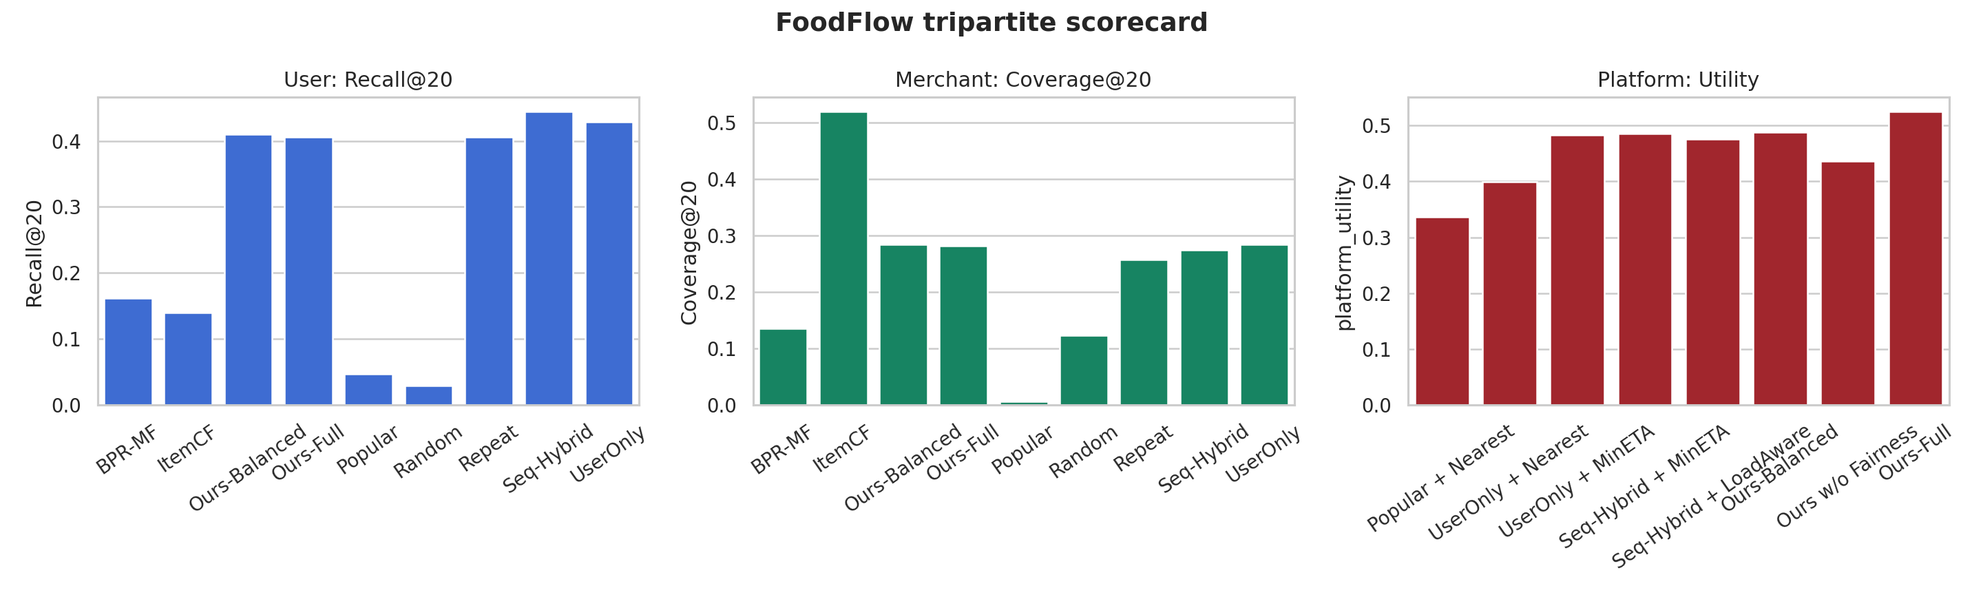
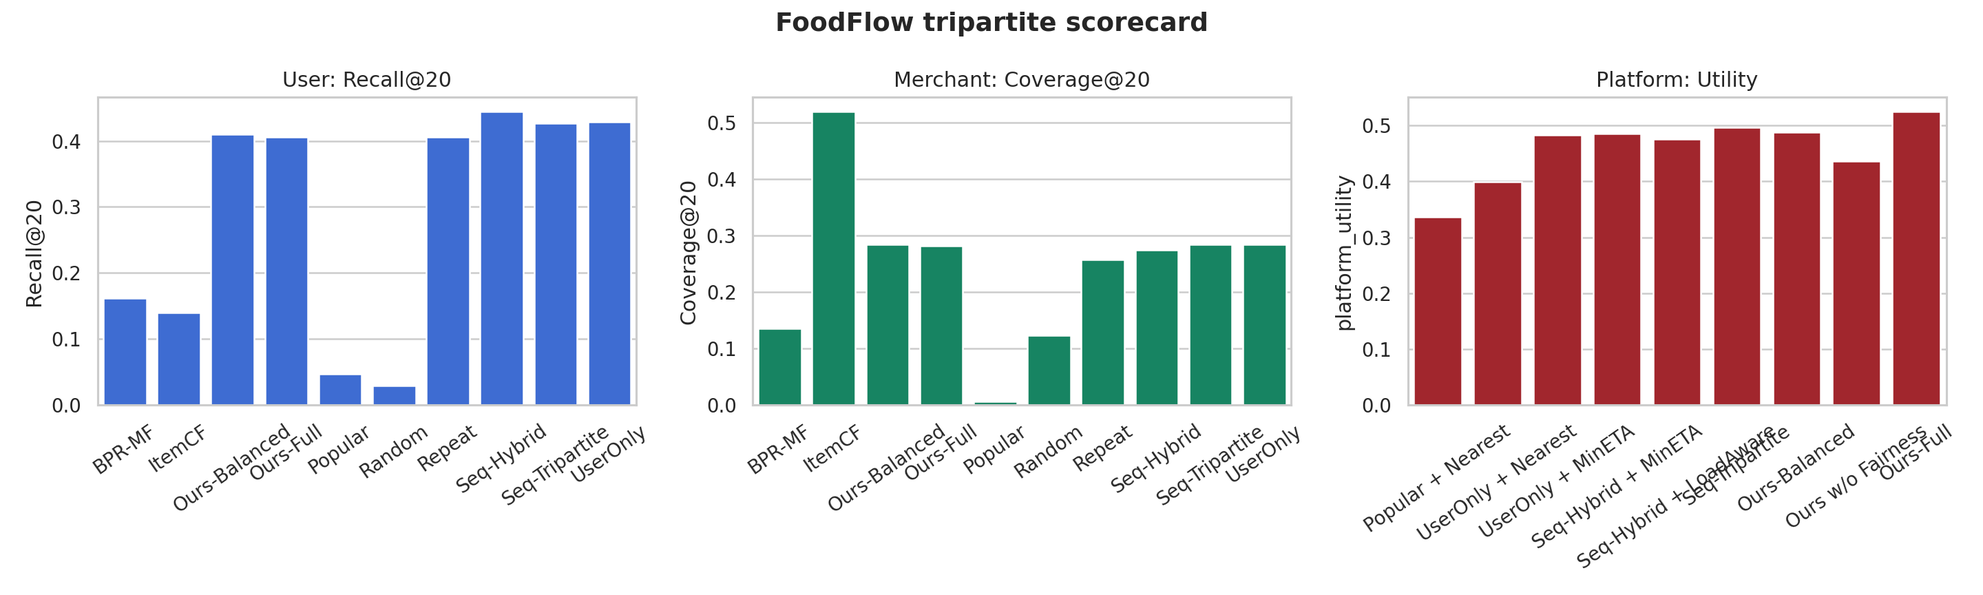
Add sequence tripartite reranker

diff --git a/foodflow/recommenders.py b/foodflow/recommenders.py
@@ -309,32 +309,88 @@ class SequentialHybridRecommender(UserOnlyRecommender):
         candidates.extend(self.popular_list)
         return [m for m in dict.fromkeys(candidates) if m in self.merchants.index]
 
-    def recommend_for_user(self, user_id: str, k: int, period: str = "lunch") -> tuple[list[str], dict[str, float]]:
+    def user_score(self, user_id: str, merchant_id: str, period: str = "lunch") -> float:
         seq = self.recent_by_user.get(user_id, [])
         counts = self.user_item_counts.get(user_id, Counter())
+        merchant = self.merchants.loc[merchant_id]
+        category = merchant.get("primary_first_tag_id", "unknown")
+        category_pref = float(self.user_cat_counts.get(user_id, {}).get(category, 0.0))
+        repeat = np.log1p(counts.get(merchant_id, 0)) / np.log(5)
+        recency_fast, recency_slow = self._recency_scores(seq, merchant_id)
+        transition = self._transition_score(seq, merchant_id)
+        popularity = float(self.pop_log.get(merchant_id, 0.0))
+        quality = float(self.quality.get(merchant_id, 0.5))
+        return float(
+            0.25 * recency_fast
+            + 0.12 * recency_slow
+            + 0.30 * repeat
+            + 0.23 * transition
+            + 0.05 * category_pref
+            + 0.03 * popularity
+            + 0.02 * quality
+        )
+
+    def recommend_for_user(self, user_id: str, k: int, period: str = "lunch") -> tuple[list[str], dict[str, float]]:
         candidates = self._sequential_candidates(user_id)
         scores: dict[str, float] = {}
         for merchant_id in candidates:
-            merchant = self.merchants.loc[merchant_id]
-            category = merchant.get("primary_first_tag_id", "unknown")
-            category_pref = float(self.user_cat_counts.get(user_id, {}).get(category, 0.0))
-            repeat = np.log1p(counts.get(merchant_id, 0)) / np.log(5)
-            recency_fast, recency_slow = self._recency_scores(seq, merchant_id)
-            transition = self._transition_score(seq, merchant_id)
-            popularity = float(self.pop_log.get(merchant_id, 0.0))
-            quality = float(self.quality.get(merchant_id, 0.5))
-            scores[merchant_id] = float(
-                0.25 * recency_fast
-                + 0.12 * recency_slow
-                + 0.30 * repeat
-                + 0.23 * transition
-                + 0.05 * category_pref
-                + 0.03 * popularity
-                + 0.02 * quality
-            )
+            scores[merchant_id] = self.user_score(user_id, merchant_id, period)
         ranked = sorted(scores, key=scores.get, reverse=True)
         recs = self._remove_seen_and_backfill(user_id, ranked, k)
         return recs, {m: scores.get(m, float(self.popular.get(m, 0))) for m in recs}
+
+
+class SeqTripartiteRecommender(SequentialHybridRecommender):
+    name = "Seq-Tripartite"
+
+    def __init__(
+        self,
+        user_weight: float = 0.95,
+        fairness_weight: float = 0.02,
+        eta_weight: float = 0.02,
+        supply_weight: float = 0.01,
+    ):
+        self.user_weight = user_weight
+        self.fairness_weight = fairness_weight
+        self.eta_weight = eta_weight
+        self.supply_weight = supply_weight
+
+    def fit(self, data: PreparedData) -> "SeqTripartiteRecommender":
+        super().fit(data)
+        self.fair = fairness_scores(data.merchants)
+        self.data = data
+        return self
+
+    def component_scores(self, user_id: str, merchant_id: str, period: str = "lunch") -> dict[str, float]:
+        user_row = self.users.loc[user_id] if user_id in self.users.index else pd.Series(dtype=object)
+        merchant = self.merchants.loc[merchant_id]
+        user_score = self.user_score(user_id, merchant_id, period)
+        eta = estimate_user_merchant_eta(user_row, merchant, period)
+        eta_score = 1.0 - min(eta / 70.0, 1.0)
+        supply = supply_score_for_merchant(merchant)
+        fair = float(self.fair.get(merchant_id, 0.0))
+        final = float(
+            self.user_weight * user_score
+            + self.fairness_weight * fair
+            + self.eta_weight * eta_score
+            + self.supply_weight * supply
+        )
+        return {
+            "user_score": float(user_score),
+            "merchant_fairness": fair,
+            "eta_minutes": float(eta),
+            "eta_score": float(eta_score),
+            "supply_score": float(supply),
+            "final_score": final,
+        }
+
+    def recommend_for_user(self, user_id: str, k: int, period: str = "lunch") -> tuple[list[str], dict[str, float]]:
+        scores = {}
+        for merchant_id in self._sequential_candidates(user_id):
+            scores[merchant_id] = self.component_scores(user_id, merchant_id, period)["final_score"]
+        ranked = sorted(scores, key=scores.get, reverse=True)
+        recs = self._remove_seen_and_backfill(user_id, ranked, k)
+        return recs, {m: scores[m] for m in recs}
 
 
 class TripartiteRerankRecommender(UserOnlyRecommender):
@@ -423,6 +479,7 @@ def build_recommenders(seed: int = 42) -> list[BaseRecommender]:
         BPRMFRecommender(seed=seed),
         UserOnlyRecommender(),
         SequentialHybridRecommender(),
+        SeqTripartiteRecommender(),
         OursBalancedRecommender(),
         OursFullRecommender(),
     ]

diff --git a/foodflow/report.py b/foodflow/report.py
@@ -102,23 +102,23 @@ def build_report(
 
 ## 3. 方法设计
 
-实现的推荐策略包括 Random、Popular、Repeat、ItemCF、BPR-MF、UserOnly、Seq-Hybrid 和 Ours-Full。Random 和 Popular 是基础对照；Repeat 反映外卖复购特征；ItemCF 和 BPR-MF 是传统协同过滤基线；UserOnly 使用品类、复购、价格、时段和商家质量；Seq-Hybrid 借鉴 FPMC/下一篮子推荐和会话推荐思想，加入最近订单时间衰减、复购频率和商家转移概率；Ours-Full 在 UserOnly 上加入商家曝光公平、ETA 和供给分。
+实现的推荐策略包括 Random、Popular、Repeat、ItemCF、BPR-MF、UserOnly、Seq-Hybrid、Seq-Tripartite 和 Ours-Full。Random 和 Popular 是基础对照；Repeat 反映外卖复购特征；ItemCF 和 BPR-MF 是传统协同过滤基线；UserOnly 使用品类、复购、价格、时段和商家质量；Seq-Hybrid 借鉴 FPMC/下一篮子推荐和会话推荐思想，加入最近订单时间衰减、复购频率和商家转移概率；Seq-Tripartite 在序列偏好底座上轻量加入公平、ETA 和供给约束；Ours-Full 在 UserOnly 上加入商家曝光公平、ETA 和供给分。
 
-为增强“不是只给一个手调模型”的可信度，系统还支持 Ours-Balanced，它提高用户偏好权重，同时保留 ETA 与供给约束，用于观察准确性和履约指标之间的权衡。答辩时可以把 Seq-Hybrid、UserOnly、Ours-Balanced 和 Ours-Full 作为一条多目标权衡链路：先用序列复购模型把离线准确性拉高，再展示三方重排如何换取更好的履约与平台效用。
+为增强“不是只给一个手调模型”的可信度，系统还支持 Ours-Balanced，它提高用户偏好权重，同时保留 ETA 与供给约束，用于观察准确性和履约指标之间的权衡。答辩时可以把 Seq-Hybrid、Seq-Tripartite、Ours-Balanced 和 Ours-Full 作为一条多目标权衡链路：先用序列复购模型把离线准确性拉高，再展示三方重排如何换取更好的履约与平台效用。
 
-三方仿真包括 Popular + Nearest、UserOnly + Nearest、UserOnly + MinETA、Seq-Hybrid + MinETA、Seq-Hybrid + LoadAware、Ours-Balanced、Ours w/o Fairness 和 Ours-Full。每轮模拟午餐高峰的一批用户请求，推荐列表经过选择模型产生订单，再由最近骑手、最小 ETA 或负载感知策略派单。
+三方仿真包括 Popular + Nearest、UserOnly + Nearest、UserOnly + MinETA、Seq-Hybrid + MinETA、Seq-Hybrid + LoadAware、Seq-Tripartite、Ours-Balanced、Ours w/o Fairness 和 Ours-Full。每轮模拟午餐高峰的一批用户请求，推荐列表经过选择模型产生订单，再由最近骑手、最小 ETA 或负载感知策略派单。
 
 ## 4. 离线推荐结果
 
 {offline_table}
 
-推荐侧指标使用 Recall@K、NDCG@K、MRR@K 和 HitRate@K；商家侧指标使用 Coverage、Long-tail Exposure 和 Exposure Gini。这样既能看推荐是否命中真实下单，也能看曝光是否过度集中。全量 TRD 结果中，Seq-Hybrid 的 Recall@20、NDCG@20 和 HitRate@20 最高，说明外卖推荐确实受最近订单和复购序列影响；Ours-Balanced 和 Ours-Full 离线准确率较低，但引入了履约和供给约束，因此后续需要结合仿真指标判断。
+推荐侧指标使用 Recall@K、NDCG@K、MRR@K 和 HitRate@K；商家侧指标使用 Coverage、Long-tail Exposure 和 Exposure Gini。这样既能看推荐是否命中真实下单，也能看曝光是否过度集中。全量 TRD 结果中，Seq-Hybrid 的 Recall@20、NDCG@20 和 HitRate@20 最高，说明外卖推荐确实受最近订单和复购序列影响；Seq-Tripartite 的 NDCG@20 和 HitRate@20 高于 UserOnly，同时保持更低曝光 Gini；Ours-Balanced 和 Ours-Full 离线准确率较低，但引入了履约和供给约束，因此后续需要结合仿真指标判断。
 
 ## 5. 动态履约仿真结果
 
 {simulation_table}
 
-履约侧指标包括完成订单数、平均 ETA、超时率、骑手负载标准差和平台综合效用。Ours-Full 的目标不是所有单项指标都最大，而是在准确性、公平性和履约可行性之间取得更适合外卖平台的折中。全量 TRD 仿真中，Seq-Hybrid 提升了离线推荐准确性；Ours-Full 则取得最高平台效用和更低超时率，说明推荐策略进入履约链路后不能只看离线命中。
+履约侧指标包括完成订单数、平均 ETA、超时率、骑手负载标准差和平台综合效用。Ours-Full 的目标不是所有单项指标都最大，而是在准确性、公平性和履约可行性之间取得更适合外卖平台的折中。全量 TRD 仿真中，Seq-Hybrid 提升了离线推荐准确性；Seq-Tripartite 在序列准确性和履约约束之间取得折中；Ours-Full 则取得最高平台效用和更低超时率，说明推荐策略进入履约链路后不能只看离线命中。
 
 ## 6. 图表展示
 

diff --git a/app.py b/app.py
@@ -22,6 +22,7 @@ from foodflow.demo_support import (
 from foodflow.recommenders import (
     OursBalancedRecommender,
     OursFullRecommender,
+    SeqTripartiteRecommender,
     SequentialHybridRecommender,
     UserOnlyRecommender,
 )
@@ -124,6 +125,7 @@ def load_model(strategy: str, data_key: str, _data: PreparedData) -> object:
     factories = {
         "UserOnly": UserOnlyRecommender,
         "Seq-Hybrid": SequentialHybridRecommender,
+        "Seq-Tripartite": SeqTripartiteRecommender,
         "Ours-Balanced": OursBalancedRecommender,
         "Ours-Full": OursFullRecommender,
     }
@@ -187,7 +189,11 @@ with st.sidebar:
     period_label = st.selectbox("时段", ["午餐高峰", "晚餐高峰", "早餐", "夜宵"], index=0)
     period_map = {"午餐高峰": "lunch", "晚餐高峰": "dinner", "早餐": "breakfast", "夜宵": "night"}
     period = period_map[period_label]
-    strategy_name = st.selectbox("推荐策略", ["Seq-Hybrid", "Ours-Full", "Ours-Balanced", "UserOnly"], index=0)
+    strategy_name = st.selectbox(
+        "推荐策略",
+        ["Seq-Hybrid", "Seq-Tripartite", "Ours-Full", "Ours-Balanced", "UserOnly"],
+        index=0,
+    )
     top_k = st.slider("推荐数量", min_value=5, max_value=12, value=10, step=1)
 
 interactive_data = build_interactive_data(user_id, demo_max_orders, tuple(case_options.values()), data)
@@ -259,7 +265,7 @@ with tab_case:
     run_strategy_compare = st.checkbox("计算三策略对比", value=False)
     if run_strategy_compare:
         strategy_rows = []
-        for name in ["UserOnly", "Seq-Hybrid", "Ours-Balanced", "Ours-Full"]:
+        for name in ["UserOnly", "Seq-Hybrid", "Seq-Tripartite", "Ours-Balanced", "Ours-Full"]:
             with st.spinner(f"加载 {name} 并生成对比..."):
                 candidate_model = load_model(name, model_data_key, interactive_data)
                 candidate_recs = candidate_model.recommend([user_id], top_k, {user_id: period}).recommendations[user_id]
@@ -508,6 +514,7 @@ with tab_peak:
                 {
                     "UserOnly + MinETA": (load_model("UserOnly", model_data_key, interactive_data), "min_eta"),
                     "Seq-Hybrid + MinETA": (load_model("Seq-Hybrid", model_data_key, interactive_data), "min_eta"),
+                    "Seq-Tripartite": (load_model("Seq-Tripartite", model_data_key, interactive_data), "load_aware"),
                     "Ours-Balanced": (load_model("Ours-Balanced", model_data_key, interactive_data), "load_aware"),
                     "Ours-Full": (load_model("Ours-Full", model_data_key, interactive_data), "load_aware"),
                 },

diff --git a/foodflow/simulator.py b/foodflow/simulator.py
@@ -12,6 +12,7 @@ from .metrics import gini
 from .recommenders import (
     OursBalancedRecommender,
     OursFullRecommender,
+    SeqTripartiteRecommender,
     PopularRecommender,
     SequentialHybridRecommender,
     UserOnlyRecommender,
@@ -33,6 +34,7 @@ DEFAULT_POLICIES = [
     SimulationPolicy("UserOnly + MinETA", "useronly", "min_eta"),
     SimulationPolicy("Seq-Hybrid + MinETA", "seq_hybrid", "min_eta"),
     SimulationPolicy("Seq-Hybrid + LoadAware", "seq_hybrid", "load_aware"),
+    SimulationPolicy("Seq-Tripartite", "seq_tripartite", "load_aware", fairness=True),
     SimulationPolicy("Ours-Balanced", "ours_balanced", "load_aware", fairness=True),
     SimulationPolicy("Ours w/o Fairness", "useronly", "load_aware"),
     SimulationPolicy("Ours-Full", "ours", "load_aware", fairness=True),
@@ -46,6 +48,8 @@ def _select_recommender(data: PreparedData, name: str, seed: int):
         return UserOnlyRecommender().fit(data)
     if name == "seq_hybrid":
         return SequentialHybridRecommender().fit(data)
+    if name == "seq_tripartite":
+        return SeqTripartiteRecommender().fit(data)
     if name == "ours":
         return OursFullRecommender().fit(data)
     if name == "ours_balanced":

diff --git a/report/实验报告.md b/report/实验报告.md
@@ -27,27 +27,28 @@
 
 ## 3. 方法设计
 
-实现的推荐策略包括 Random、Popular、Repeat、ItemCF、BPR-MF、UserOnly、Seq-Hybrid 和 Ours-Full。Random 和 Popular 是基础对照；Repeat 反映外卖复购特征；ItemCF 和 BPR-MF 是传统协同过滤基线；UserOnly 使用品类、复购、价格、时段和商家质量；Seq-Hybrid 借鉴 FPMC/下一篮子推荐和会话推荐思想，加入最近订单时间衰减、复购频率和商家转移概率；Ours-Full 在 UserOnly 上加入商家曝光公平、ETA 和供给分。
+实现的推荐策略包括 Random、Popular、Repeat、ItemCF、BPR-MF、UserOnly、Seq-Hybrid、Seq-Tripartite 和 Ours-Full。Random 和 Popular 是基础对照；Repeat 反映外卖复购特征；ItemCF 和 BPR-MF 是传统协同过滤基线；UserOnly 使用品类、复购、价格、时段和商家质量；Seq-Hybrid 借鉴 FPMC/下一篮子推荐和会话推荐思想，加入最近订单时间衰减、复购频率和商家转移概率；Seq-Tripartite 在序列偏好底座上轻量加入公平、ETA 和供给约束；Ours-Full 在 UserOnly 上加入商家曝光公平、ETA 和供给分。
 
-为增强“不是只给一个手调模型”的可信度，系统还支持 Ours-Balanced，它提高用户偏好权重，同时保留 ETA 与供给约束，用于观察准确性和履约指标之间的权衡。答辩时可以把 Seq-Hybrid、UserOnly、Ours-Balanced 和 Ours-Full 作为一条多目标权衡链路：先用序列复购模型把离线准确性拉高，再展示三方重排如何换取更好的履约与平台效用。
+为增强“不是只给一个手调模型”的可信度，系统还支持 Ours-Balanced，它提高用户偏好权重，同时保留 ETA 与供给约束，用于观察准确性和履约指标之间的权衡。答辩时可以把 Seq-Hybrid、Seq-Tripartite、Ours-Balanced 和 Ours-Full 作为一条多目标权衡链路：先用序列复购模型把离线准确性拉高，再展示三方重排如何换取更好的履约与平台效用。
 
-三方仿真包括 Popular + Nearest、UserOnly + Nearest、UserOnly + MinETA、Seq-Hybrid + MinETA、Seq-Hybrid + LoadAware、Ours-Balanced、Ours w/o Fairness 和 Ours-Full。每轮模拟午餐高峰的一批用户请求，推荐列表经过选择模型产生订单，再由最近骑手、最小 ETA 或负载感知策略派单。
+三方仿真包括 Popular + Nearest、UserOnly + Nearest、UserOnly + MinETA、Seq-Hybrid + MinETA、Seq-Hybrid + LoadAware、Seq-Tripartite、Ours-Balanced、Ours w/o Fairness 和 Ours-Full。每轮模拟午餐高峰的一批用户请求，推荐列表经过选择模型产生订单，再由最近骑手、最小 ETA 或负载感知策略派单。
 
 ## 4. 离线推荐结果
 
-| model         |   Recall@10 |   NDCG@10 |   MRR@10 |   HitRate@10 |   Recall@20 |   NDCG@20 |   MRR@20 |   HitRate@20 |   Coverage@20 |   ExposureGini |   LongTailExposure@20 |
-|:--------------|------------:|----------:|---------:|-------------:|------------:|----------:|---------:|-------------:|--------------:|---------------:|----------------------:|
-| BPR-MF        |      0.1269 |    0.0968 |   0.1108 |       0.1967 |      0.162  |    0.1068 |   0.1141 |       0.2433 |        0.135  |         0.9516 |                0.0592 |
-| ItemCF        |      0.0794 |    0.0454 |   0.0528 |       0.1567 |      0.1393 |    0.0631 |   0.0587 |       0.2433 |        0.5188 |         0.782  |                0.6467 |
-| Ours-Balanced |      0.3891 |    0.3285 |   0.3709 |       0.54   |      0.4097 |    0.3346 |   0.3724 |       0.5633 |        0.2844 |         0.8769 |                0.4216 |
-| Ours-Full     |      0.3836 |    0.3255 |   0.3688 |       0.5333 |      0.4055 |    0.332  |   0.3705 |       0.5633 |        0.2811 |         0.889  |                0.4289 |
-| Popular       |      0.0219 |    0.0135 |   0.018  |       0.0467 |      0.047  |    0.021  |   0.0209 |       0.09   |        0.0062 |         0.9952 |                0      |
-| Random        |      0.0163 |    0.0094 |   0.0099 |       0.0367 |      0.0297 |    0.0137 |   0.0116 |       0.0633 |        0.123  |         0.8968 |                0      |
-| Repeat        |      0.398  |    0.3318 |   0.3696 |       0.5467 |      0.4062 |    0.3348 |   0.3701 |       0.5533 |        0.2571 |         0.9369 |                0.4701 |
-| Seq-Hybrid    |      0.4056 |    0.339  |   0.3785 |       0.56   |      0.4441 |    0.3513 |   0.3809 |       0.5933 |        0.274  |         0.9198 |                0.4411 |
-| UserOnly      |      0.3988 |    0.3336 |   0.373  |       0.5467 |      0.4287 |    0.3423 |   0.3747 |       0.5733 |        0.2841 |         0.8857 |                0.4242 |
+| model          |   Recall@10 |   NDCG@10 |   MRR@10 |   HitRate@10 |   Recall@20 |   NDCG@20 |   MRR@20 |   HitRate@20 |   Coverage@20 |   ExposureGini |   LongTailExposure@20 |
+|:---------------|------------:|----------:|---------:|-------------:|------------:|----------:|---------:|-------------:|--------------:|---------------:|----------------------:|
+| BPR-MF         |      0.1269 |    0.0968 |   0.1108 |       0.1967 |      0.162  |    0.1068 |   0.1141 |       0.2433 |        0.135  |         0.9516 |                0.0592 |
+| ItemCF         |      0.0794 |    0.0454 |   0.0528 |       0.1567 |      0.1393 |    0.0631 |   0.0587 |       0.2433 |        0.5188 |         0.782  |                0.6467 |
+| Ours-Balanced  |      0.3891 |    0.3285 |   0.3709 |       0.54   |      0.4097 |    0.3346 |   0.3724 |       0.5633 |        0.2844 |         0.8769 |                0.4216 |
+| Ours-Full      |      0.3836 |    0.3255 |   0.3688 |       0.5333 |      0.4055 |    0.332  |   0.3705 |       0.5633 |        0.2811 |         0.889  |                0.4289 |
+| Popular        |      0.0219 |    0.0135 |   0.018  |       0.0467 |      0.047  |    0.021  |   0.0209 |       0.09   |        0.0062 |         0.9952 |                0      |
+| Random         |      0.0163 |    0.0094 |   0.0099 |       0.0367 |      0.0297 |    0.0137 |   0.0116 |       0.0633 |        0.123  |         0.8968 |                0      |
+| Repeat         |      0.398  |    0.3318 |   0.3696 |       0.5467 |      0.4062 |    0.3348 |   0.3701 |       0.5533 |        0.2571 |         0.9369 |                0.4701 |
+| Seq-Hybrid     |      0.4056 |    0.339  |   0.3785 |       0.56   |      0.4441 |    0.3513 |   0.3809 |       0.5933 |        0.274  |         0.9198 |                0.4411 |
+| Seq-Tripartite |      0.4054 |    0.3403 |   0.3836 |       0.57   |      0.4266 |    0.347  |   0.3844 |       0.5833 |        0.2841 |         0.8848 |                0.4275 |
+| UserOnly       |      0.3988 |    0.3336 |   0.373  |       0.5467 |      0.4287 |    0.3423 |   0.3747 |       0.5733 |        0.2841 |         0.8857 |                0.4242 |
 
-推荐侧指标使用 Recall@K、NDCG@K、MRR@K 和 HitRate@K；商家侧指标使用 Coverage、Long-tail Exposure 和 Exposure Gini。这样既能看推荐是否命中真实下单，也能看曝光是否过度集中。全量 TRD 结果中，Seq-Hybrid 的 Recall@20、NDCG@20 和 HitRate@20 最高，说明外卖推荐确实受最近订单和复购序列影响；Ours-Balanced 和 Ours-Full 离线准确率较低，但引入了履约和供给约束，因此后续需要结合仿真指标判断。
+推荐侧指标使用 Recall@K、NDCG@K、MRR@K 和 HitRate@K；商家侧指标使用 Coverage、Long-tail Exposure 和 Exposure Gini。这样既能看推荐是否命中真实下单，也能看曝光是否过度集中。全量 TRD 结果中，Seq-Hybrid 的 Recall@20、NDCG@20 和 HitRate@20 最高，说明外卖推荐确实受最近订单和复购序列影响；Seq-Tripartite 的 NDCG@20 和 HitRate@20 高于 UserOnly，同时保持更低曝光 Gini；Ours-Balanced 和 Ours-Full 离线准确率较低，但引入了履约和供给约束，因此后续需要结合仿真指标判断。
 
 ## 5. 动态履约仿真结果
 
@@ -58,11 +59,12 @@
 | UserOnly + MinETA      |                 97 |             97 |                 1 |   55.3332 |         0.6701 |         0.3299 |           0.662  |          0.819  |                   0.99   |              0.8582 |             0.4831 |
 | Seq-Hybrid + MinETA    |                 93 |             93 |                 1 |   52.4904 |         0.6667 |         0.3333 |           0.6253 |          0.8069 |                   0.9916 |              0.8581 |             0.4851 |
 | Seq-Hybrid + LoadAware |                 95 |             95 |                 1 |   56.1323 |         0.6421 |         0.3579 |           0.657  |          0.8298 |                   0.9927 |              0.8032 |             0.4763 |
+| Seq-Tripartite         |                 88 |             88 |                 1 |   52.1499 |         0.6364 |         0.3636 |           0.5878 |          0.8016 |                   0.9883 |              0.8625 |             0.4963 |
 | Ours-Balanced          |                 93 |             93 |                 1 |   50.9764 |         0.6344 |         0.3656 |           0.5695 |          0.7349 |                   0.9892 |              0.7989 |             0.4875 |
 | Ours w/o Fairness      |                 95 |             95 |                 1 |   56.1694 |         0.7684 |         0.2316 |           0.6442 |          0.8137 |                   0.9912 |              0.7858 |             0.4359 |
 | Ours-Full              |                 91 |             91 |                 1 |   50.8471 |         0.5714 |         0.4286 |           0.6055 |          0.7984 |                   0.9896 |              0.8973 |             0.5246 |
 
-履约侧指标包括完成订单数、平均 ETA、超时率、骑手负载标准差和平台综合效用。Ours-Full 的目标不是所有单项指标都最大，而是在准确性、公平性和履约可行性之间取得更适合外卖平台的折中。全量 TRD 仿真中，Seq-Hybrid 提升了离线推荐准确性；Ours-Full 则取得最高平台效用和更低超时率，说明推荐策略进入履约链路后不能只看离线命中。
+履约侧指标包括完成订单数、平均 ETA、超时率、骑手负载标准差和平台综合效用。Ours-Full 的目标不是所有单项指标都最大，而是在准确性、公平性和履约可行性之间取得更适合外卖平台的折中。全量 TRD 仿真中，Seq-Hybrid 提升了离线推荐准确性；Seq-Tripartite 在序列准确性和履约约束之间取得折中；Ours-Full 则取得最高平台效用和更低超时率，说明推荐策略进入履约链路后不能只看离线命中。
 
 ## 6. 图表展示
 

diff --git a/README.md b/README.md
@@ -6,7 +6,7 @@
 
 ## 项目亮点
 
-- 用户侧推荐：实现 Random、Popular、Repeat、ItemCF、BPR-MF、UserOnly、Seq-Hybrid、Ours-Full 等策略。
+- 用户侧推荐：实现 Random、Popular、Repeat、ItemCF、BPR-MF、UserOnly、Seq-Hybrid、Seq-Tripartite、Ours-Full 等策略。
 - 商家侧公平：在重排中引入商家曝光公平、长尾曝光与 Exposure Gini 等指标。
 - 骑手侧履约：模拟订单-骑手匹配，比较最近骑手、最小 ETA、负载感知三类策略。
 - 动态仿真：模拟午餐高峰多时间步请求，持续更新骑手状态和订单履约结果。
@@ -40,7 +40,7 @@ TRD 数据下载与清洗
   -> 指标、图表、报告与 demo
 ```
 
-本轮新增 `Seq-Hybrid`，借鉴 FPMC/下一篮子推荐和会话推荐思想，把外卖复购、最近订单时间衰减和商家转移概率加入排序，用于提升离线推荐准确性。
+本轮新增 `Seq-Hybrid`，借鉴 FPMC/下一篮子推荐和会话推荐思想，把外卖复购、最近订单时间衰减和商家转移概率加入排序，用于提升离线推荐准确性。`Seq-Tripartite` 则在序列偏好底座上轻量加入公平、ETA 和供给约束，用于展示“更准的偏好模型也可以接入三方重排”。
 
 Ours-Full 推荐分数采用可解释加权重排：
 
@@ -202,7 +202,7 @@ python3 scripts/prepare_notebooklm_pack.py
 
 当前提交的结果已经使用完整 TRD `orders_train.txt`，数据审计显示原始训练订单 `1,068,495` 条，处理后训练订单 `1,068,495` 条，训练订单使用比例 `1.0000`。
 
-离线推荐中，`Seq-Hybrid` 的 Recall@20 最高，为 `0.4441`，NDCG@20 为 `0.3513`，HitRate@20 为 `0.5933`；相比原先最强的 `UserOnly`，Recall@20 从 `0.4287` 提升到 `0.4441`。`Ours-Full` 的 Recall@20 为 `0.4055`，离线准确率不是最高，但保留了履约与供给约束。
+离线推荐中，`Seq-Hybrid` 的 Recall@20 最高，为 `0.4441`，NDCG@20 为 `0.3513`，HitRate@20 为 `0.5933`；相比原先最强的 `UserOnly`，Recall@20 从 `0.4287` 提升到 `0.4441`。`Seq-Tripartite` 的 NDCG@20 为 `0.3470`，HitRate@20 为 `0.5833`，高于 UserOnly，同时保留轻量三方约束。`Ours-Full` 的 Recall@20 为 `0.4055`，离线准确率不是最高，但平台效用最好。
 
 动态履约仿真中，`Ours-Full` 取得最低平均 ETA、最低超时率和最高平台综合效用：
 
@@ -211,10 +211,11 @@ python3 scripts/prepare_notebooklm_pack.py
 | UserOnly + Nearest | 86.54 | 0.8721 | 0.3998 |
 | UserOnly + MinETA | 55.33 | 0.6701 | 0.4831 |
 | Seq-Hybrid + MinETA | 52.49 | 0.6667 | 0.4851 |
+| Seq-Tripartite | 52.15 | 0.6364 | 0.4963 |
 | Ours-Balanced | 50.98 | 0.6344 | 0.4875 |
 | Ours-Full | 50.85 | 0.5714 | 0.5246 |
 
-结论不是“单一模型在所有指标上最优”，而是：`Seq-Hybrid` 通过序列复购建模取得最强离线推荐准确性；`Ours-Full` 牺牲一部分离线准确性，换取更低超时率和更高平台综合效用，更符合外卖平台的多主体优化目标。
+结论不是“单一模型在所有指标上最优”，而是：`Seq-Hybrid` 通过序列复购建模取得最强离线推荐准确性；`Seq-Tripartite` 证明高准确偏好模型可以接入三方约束；`Ours-Full` 牺牲一部分离线准确性，换取更低超时率和更高平台综合效用，更符合外卖平台的多主体优化目标。
 
 ## 图表示例
 

diff --git a/docs/LITERATURE_OPTIMIZATION_NOTES.md b/docs/LITERATURE_OPTIMIZATION_NOTES.md
@@ -49,11 +49,12 @@ score =
 | UserOnly | 0.4287 | 0.3423 | 0.5733 |
 | Seq-Hybrid | 0.4441 | 0.3513 | 0.5933 |
 
-仿真结果中，`Ours-Full` 仍取得最高平台效用。答辩故事因此更自然：`Seq-Hybrid` 证明推荐准确性可以继续提升；`Ours-Full` 证明外卖平台不能只看准确性，还要看 ETA、超时率、商家曝光和骑手负载。
+本轮继续实现了 `Seq-Tripartite`：在 `Seq-Hybrid` 的序列偏好底座上轻量加入公平、ETA 和供给约束。它的 NDCG@20 和 HitRate@20 高于 UserOnly，仿真平台效用也高于 `Seq-Hybrid + MinETA`，说明序列准确性可以和三方约束结合。
+
+仿真结果中，`Ours-Full` 仍取得最高平台效用。答辩故事因此更自然：`Seq-Hybrid` 证明推荐准确性可以继续提升；`Seq-Tripartite` 证明高准确序列模型可以接入三方约束；`Ours-Full` 证明外卖平台不能只看准确性，还要看 ETA、超时率、商家曝光和骑手负载。
 
 ## 下一步可继续尝试
 
-1. 把 `Seq-Hybrid` 作为 `Ours-Full` 的用户偏好底座，形成 `Seq-Tripartite`。
-2. 引入 DPP/xQuAD 的列表级重排，让商家覆盖和品类多样性更直观。
-3. 对三方权重做网格搜索或贝叶斯优化，输出 Pareto frontier，而不是只给单点权重。
-4. 用真实地图底图或 hexbin 密度图替换普通散点，让 demo 的空间分布更像业务看板。
+1. 引入 DPP/xQuAD 的列表级重排，让商家覆盖和品类多样性更直观。
+2. 对三方权重做网格搜索或贝叶斯优化，输出 Pareto frontier，而不是只给单点权重。
+3. 用真实地图底图或 hexbin 密度图替换普通散点，让 demo 的空间分布更像业务看板。
